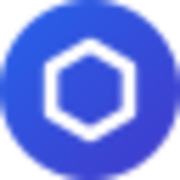
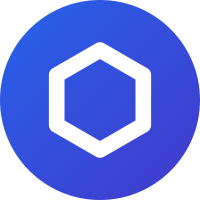
mejorada la resolucion de los iconos para PWA

diff --git a/vite.config.ts b/vite.config.ts
@@ -12,12 +12,16 @@ export default defineConfig({
       registerType: 'autoUpdate',
       includeAssets: ['favicon.svg', 'apple-touch-icon.png', 'maskable-icon.svg'],
       manifest: {
-        name: 'Nexa - Control de Accesos',
+        id: 'com.nexa.access-control',
+        name: 'Nexa',
         short_name: 'Nexa',
         description: 'Sistema Profesional de Control de Accesos y Personal',
         theme_color: '#2563eb',
         background_color: '#ffffff',
         display: 'standalone',
+        orientation: 'portrait-primary',
+        lang: 'es',
+        dir: 'ltr',
         icons: [
           {
             src: 'favicon.svg',
@@ -28,18 +32,20 @@ export default defineConfig({
           {
             src: 'pwa-192x192.png',
             sizes: '192x192',
-            type: 'image/png'
-          },
-          {
-            src: 'pwa-512x512.png',
-            sizes: '512x512',
-            type: 'image/png'
+            type: 'image/png',
+            purpose: 'any'
           },
           {
             src: 'pwa-512x512.png',
             sizes: '512x512',
             type: 'image/png',
-            purpose: 'any maskable'
+            purpose: 'any'
+          },
+          {
+            src: 'maskable-icon-512x512.png',
+            sizes: '512x512',
+            type: 'image/png',
+            purpose: 'maskable'
           }
         ]
       }
